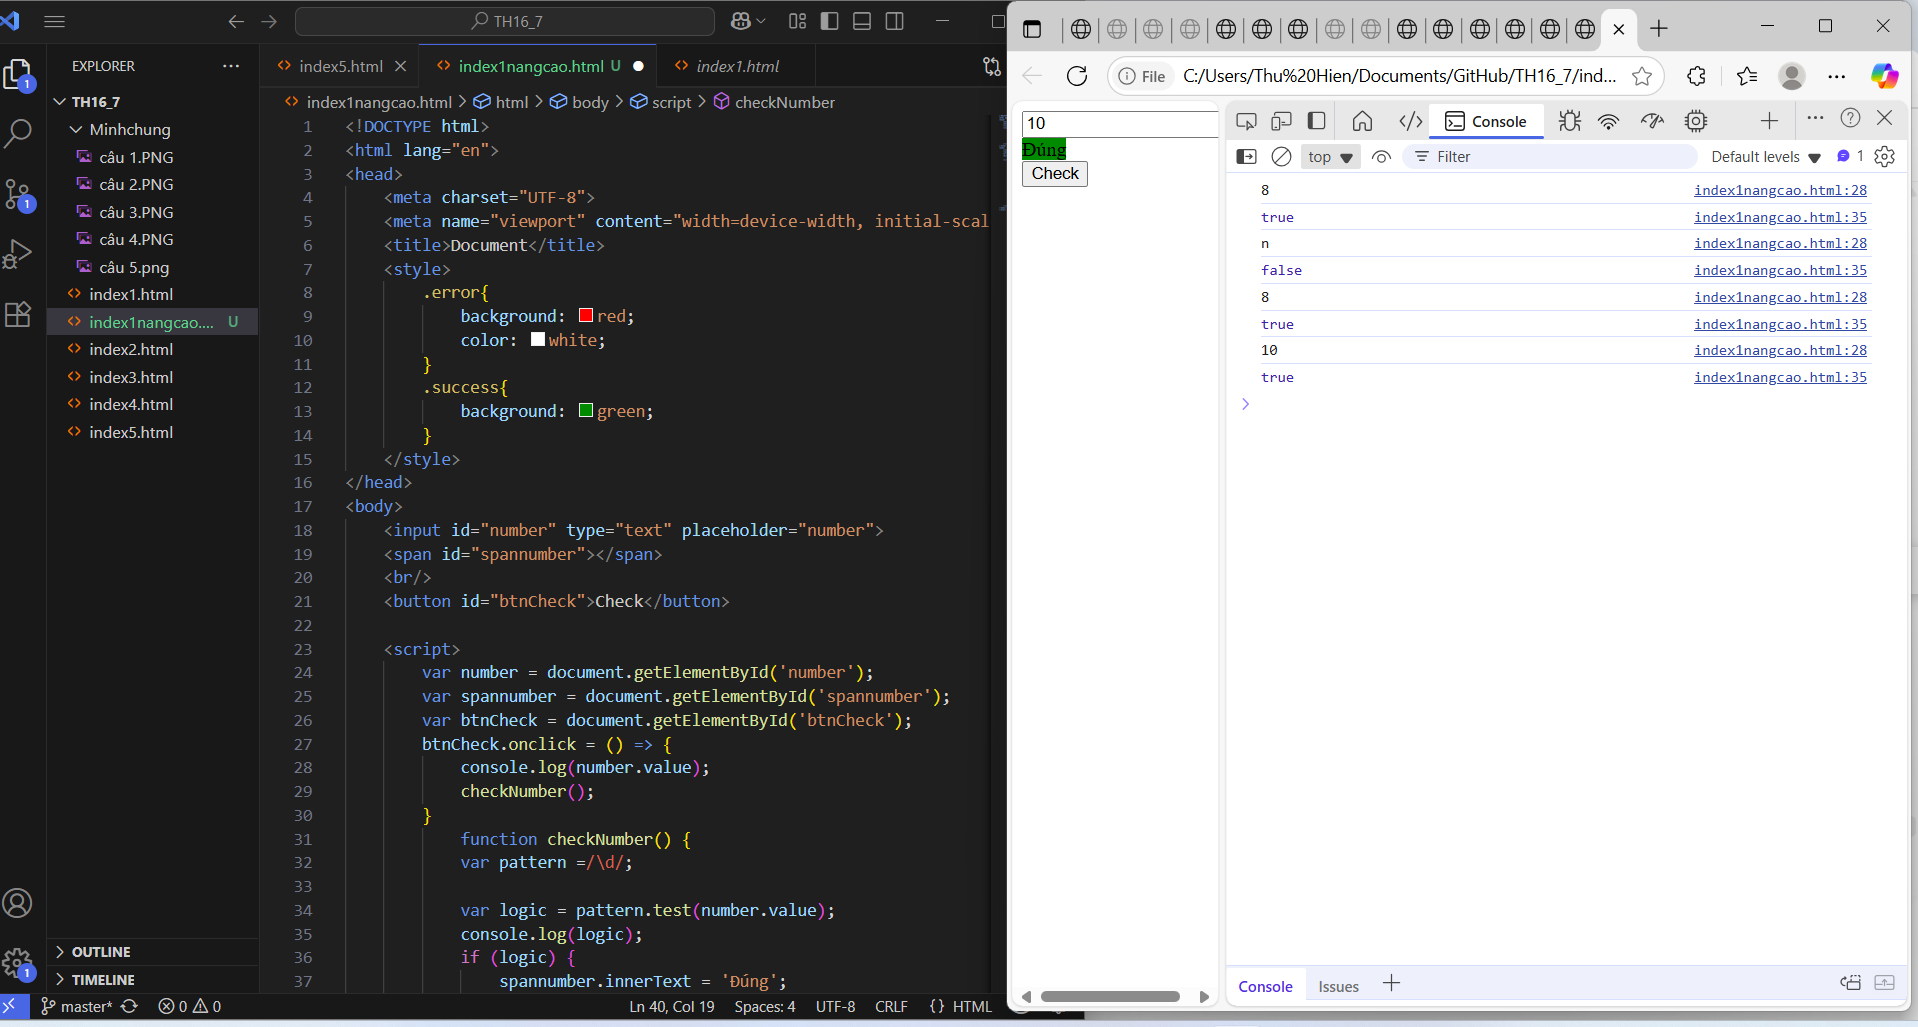
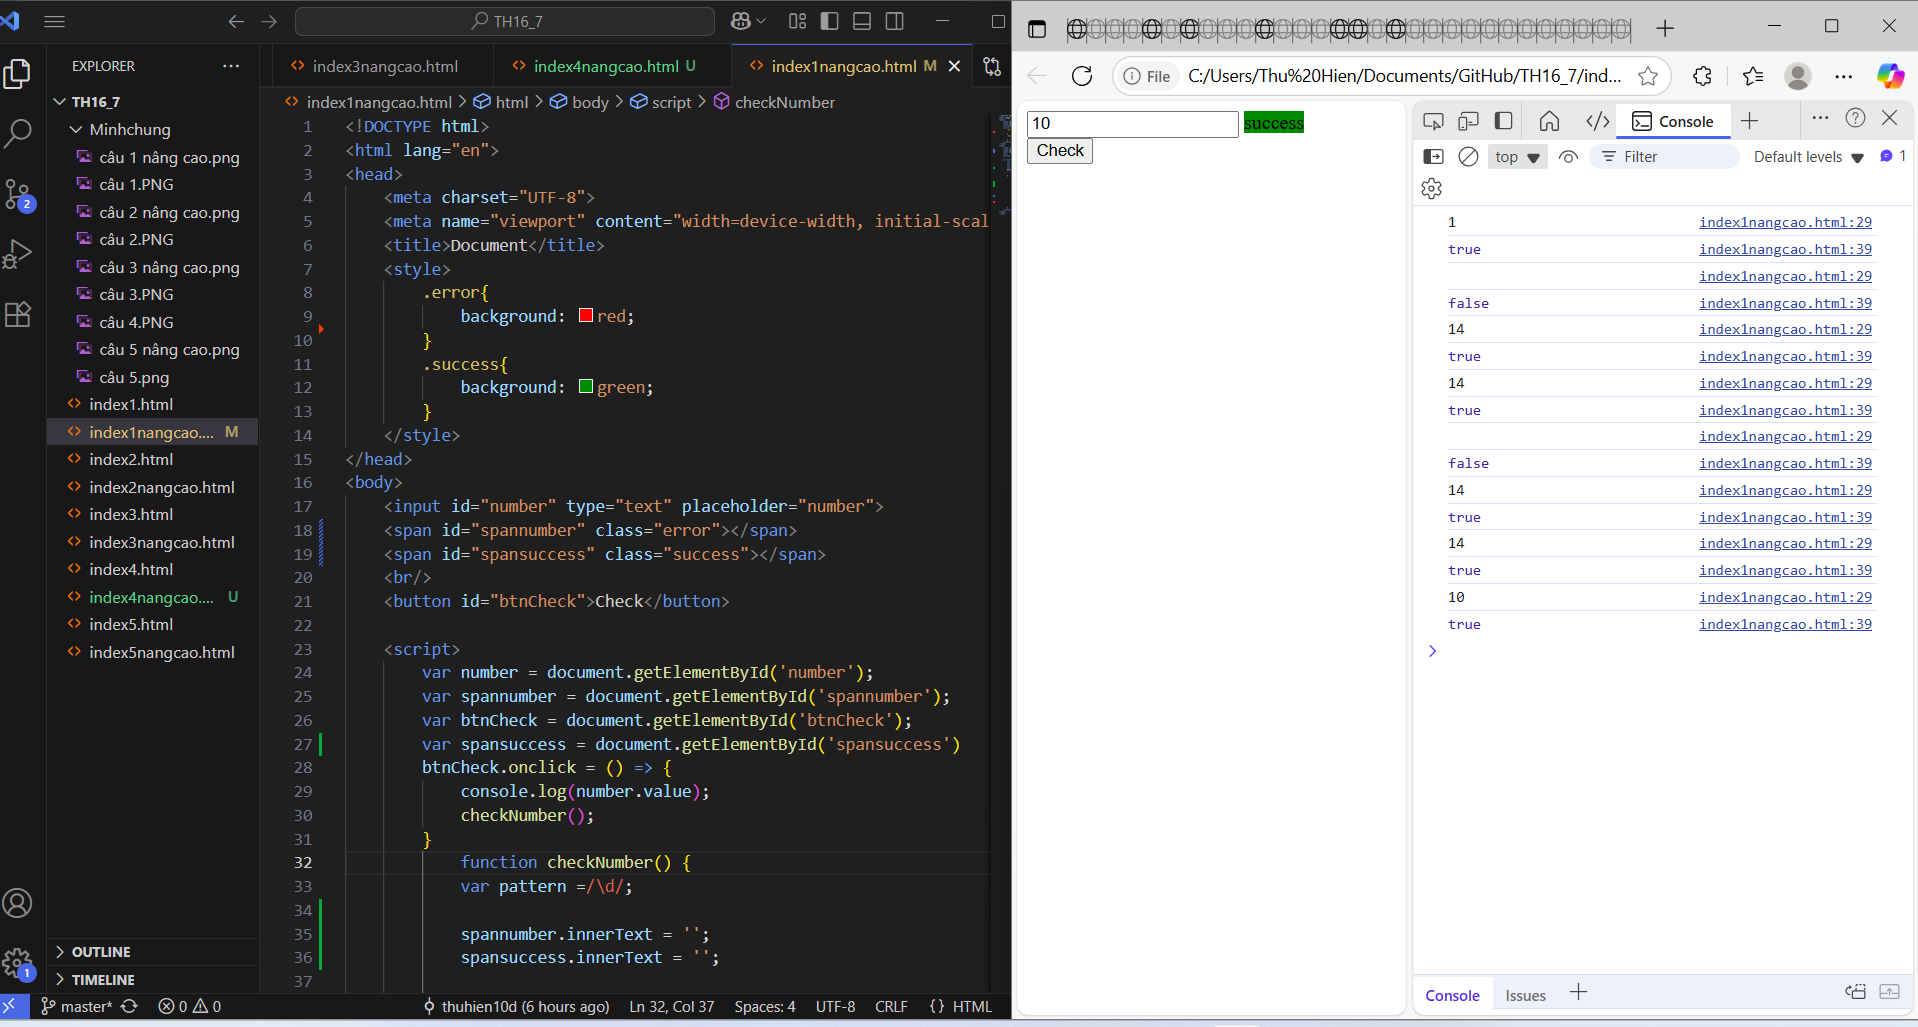
add file index1nangcao.html + Minhchung1nc

diff --git a/index4nangcao.html b/index4nangcao.html
@@ -1,0 +1,86 @@
+<!DOCTYPE html>
+<html lang="en">
+<head>
+  <meta charset="UTF-8" />
+  <meta name="viewport" content="width=device-width, initial-scale=1.0"/>
+  <title>Kiểm tra số và số điện thoại</title>
+  <style>
+    .error {
+      background: red;
+    }
+    .success {
+      background: green;
+    }
+  </style>
+</head>
+<body>
+    <input id="number" type="text" placeholder="number">
+    <span id="spannumber" class="error"></span>
+    <br/>
+    <input id="mobilenumber" type="text" placeholder="mobilenumber">
+    <span id ="spanmobilenumber" class="error"></span>
+    </br>
+    <span id="spansuccess"></span>
+    <br/>
+    <button id="btnCheck">Check</button>
+<script>
+    var number = document.getElementById('number');
+    var spannumber = document.getElementById('spannumber');
+
+    var mobilenumber = document.getElementById('mobilenumber');
+    var spanmobilenumber = document.getElementById('spanmobilenumber');
+    var spansuccess = document.getElementById('spansuccess');
+
+    var btnCheck = document.getElementById('btnCheck');
+    
+    btnCheck.onclick = () => {
+        
+        var isNumber = checkNumber();
+        var isPhone = checkmobilenumber();
+        checkAll(isNumber, isPhone);
+    }
+            function checkNumber() {
+            var pattern =/\d/;
+
+            var logic = pattern.test(number.value);
+            console.log(logic);
+            if (logic) {
+                spannumber.innerText = '';
+                spannumber.className = '';
+            }
+            else {
+                spannumber.innerText = 'Please check input';
+                spannumber.className = 'error';
+            }
+            return logic;
+        }
+
+            function checkmobilenumber() {
+            var pattern =/^\d{10}$/;
+
+            var logic = pattern.test(mobilenumber.value);
+            console.log(logic);
+            if (logic) {
+                spanmobilenumber.innerText = '';
+                spanmobilenumber.className = '';
+
+            }
+            else {
+                spanmobilenumber.innerText = 'Please check input'
+                spanmobilenumber.className = 'error'
+            }
+            return logic;
+        }
+
+        function checkAll (isNumber, isPhone) {
+            if (isNumber && isPhone) {
+                spansuccess.innerText = 'success';
+                spansuccess.className = 'success'
+            } else {
+                spansuccess.innerText = '';
+                spansuccess.className = '';
+            }
+            }
+</script>
+</body>
+</html>

diff --git a/index1nangcao.html b/index1nangcao.html
@@ -7,7 +7,6 @@
     <style>
         .error{
             background: red;
-            color: white;
         }
         .success{
             background: green;
@@ -16,7 +15,8 @@
 </head>
 <body>
     <input id="number" type="text" placeholder="number">
-    <span id="spannumber"></span>
+    <span id="spannumber" class="error"></span>
+    <span id="spansuccess" class="success"></span>
     <br/>
     <button id="btnCheck">Check</button>
 
@@ -24,22 +24,24 @@
         var number = document.getElementById('number');
         var spannumber = document.getElementById('spannumber');
         var btnCheck = document.getElementById('btnCheck');
+        var spansuccess = document.getElementById('spansuccess')
         btnCheck.onclick = () => {
             console.log(number.value);
             checkNumber();
         }
             function checkNumber() {
             var pattern =/\d/;
+            
+            spannumber.innerText = '';
+            spansuccess.innerText = '';
 
             var logic = pattern.test(number.value);
             console.log(logic);
             if (logic) {
-                spannumber.innerText = 'Đúng';
-                spannumber.className = 'success';
+                spansuccess.innerText = 'success';
             }
             else {
                 spannumber.innerText = 'Please check input:';
-                 spannumber.className = 'error';
             }
             return logic;
         }
